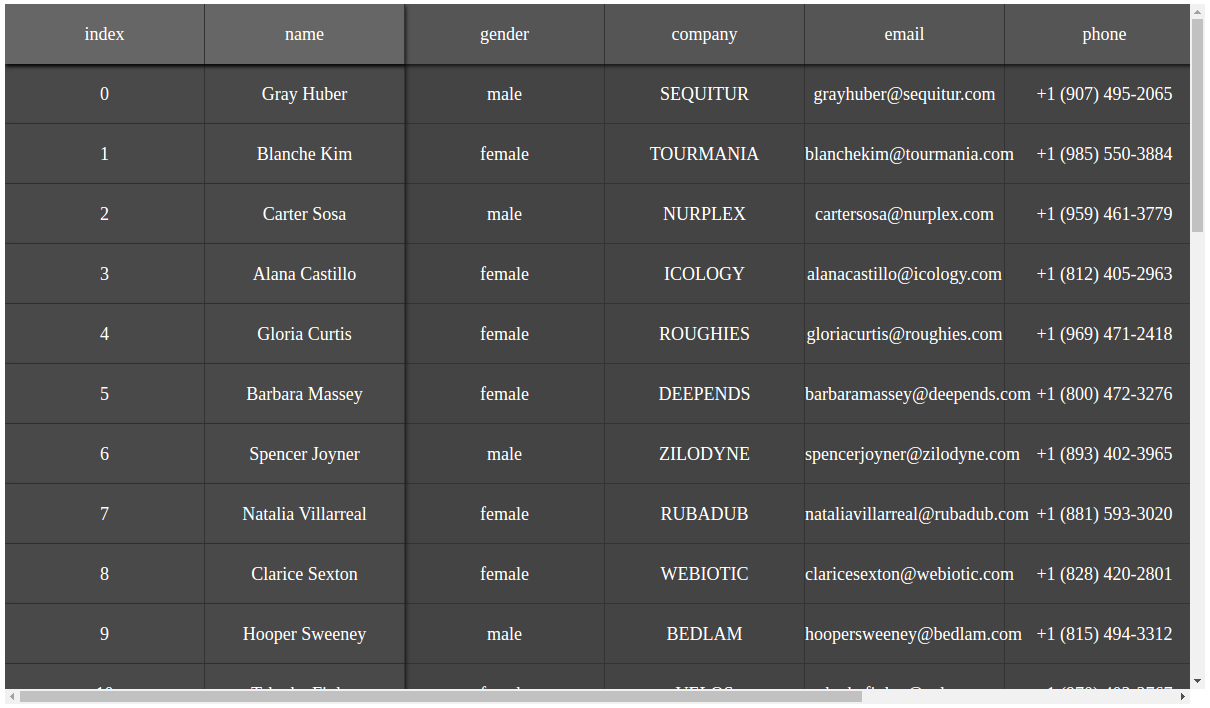
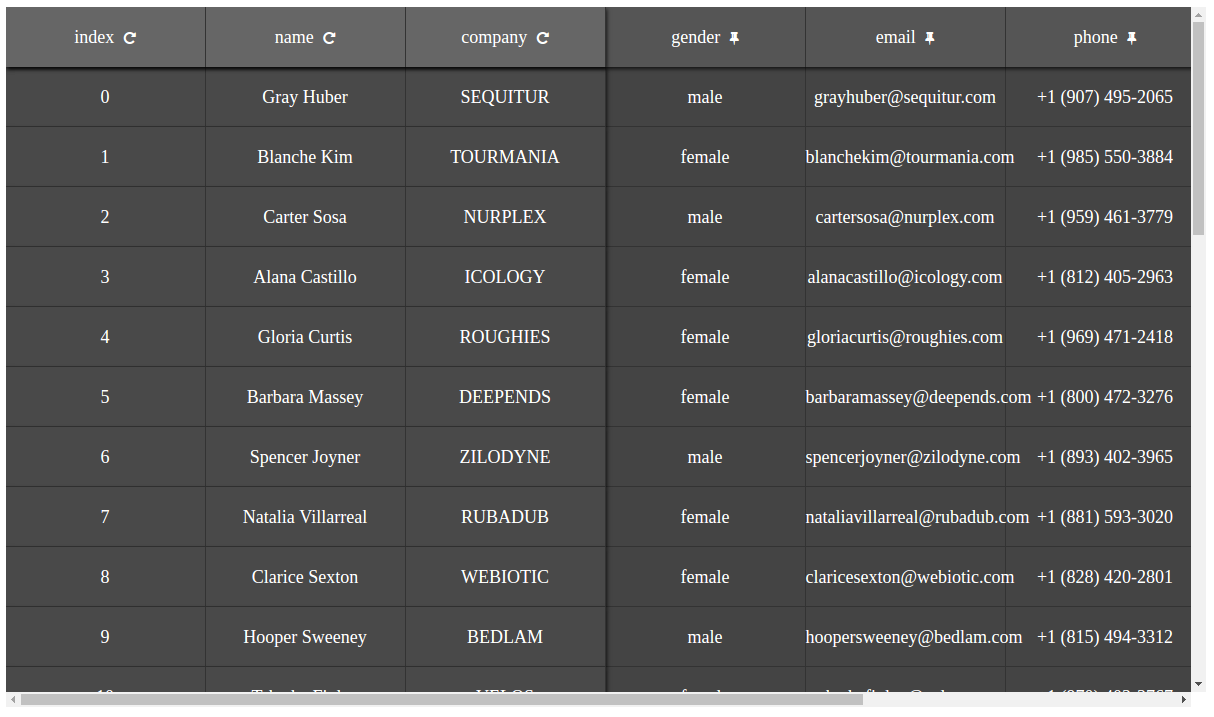
background color and row height parametrized

diff --git a/src/app/modules/table-layout/components/table-layout/table-layout.component.html b/src/app/modules/table-layout/components/table-layout/table-layout.component.html
@@ -1,20 +1,22 @@
-<div id="scrollable" class="table_container">
+<div id="scrollable" class="table_container" [ngStyle]="{'background-color': background}">
 
-  <div id="point" class="header">
+  <div id="point" class="header" [ngStyle]="{'height': rowHeight}">
 
-    <ul id="top_left_fixed">
-      <li *ngFor="let fixedName of data.fixedColumnNames">
-        <span>{{fixedName}}
+    <ul id="top_left_fixed" [ngStyle]="{'height': rowHeight}">
+      <li [ngStyle]="{'height': rowHeight, 'background-color': topLeftBg}" *ngFor="let fixedName of data.fixedColumnNames" >
+        <span [ngStyle]="{'line-height': rowHeight, 'color':color}">{{fixedName}}
           <i fa [name]="'repeat'" (click)="unfixColumn(fixedName)"></i>
         </span>
       </li>
     </ul>
 
-    <div id="scrollable_x" class="scrollable_x">
-      <ul>
-        <li *ngFor="let fixedName of data.fixedColumnNames"><span>$nbsp;</span></li>
-        <li *ngFor="let scrollableName of data.scrollableColumnNames">
-          <span>{{scrollableName}}
+    <div id="scrollable_x" class="scrollable_x" [ngStyle]="{'height': rowHeight, 'top': negRowHeight}">
+      <ul [ngStyle]="{'height': rowHeight}">
+        <li [ngStyle]="{'height': rowHeight, 'background-color': xyBg}" *ngFor="let fixedName of data.fixedColumnNames">
+          <span [ngStyle]="{'line-height': rowHeight, 'color':color}">$nbsp;</span>
+        </li>
+        <li [ngStyle]="{'height': rowHeight, 'background-color': xyBg}" *ngFor="let scrollableName of data.scrollableColumnNames">
+          <span [ngStyle]="{'line-height': rowHeight, 'color':color}">{{scrollableName}}
             <i fa [name]="'thumb-tack'" (click)="fixColumn(scrollableName)"></i>
           </span>
         </li>
@@ -23,16 +25,20 @@
   </div>
 
   <div class="data_rows" id="data_rows">
-   
-
-    <div class="data_row" *ngFor="let row of data.rows">
-      <ul>
-        <li *ngFor="let fixedName of data.fixedColumnNames"><span>&nbsp;</span></li>
-        <li *ngFor="let scrollableName of data.scrollableColumnNames"><span>{{row[scrollableName]}}</span></li>
+    <div class="data_row" *ngFor="let row of data.rows" [ngStyle]="{'height': rowHeight}">
+      <ul [ngStyle]="{'height': rowHeight}">
+        <li [ngStyle]="{'height': subOneRowHeight, 'background-color': background}" *ngFor="let fixedName of data.fixedColumnNames">
+          <span [ngStyle]="{'line-height': rowHeight, 'color':color}">&nbsp;</span>
+        </li>
+        <li [ngStyle]="{'height': subOneRowHeight, 'background-color': background}" *ngFor="let scrollableName of data.scrollableColumnNames">
+          <span [ngStyle]="{'line-height': rowHeight, 'color':color}">{{row[scrollableName]}}</span>
+        </li>
       </ul>
-      <div class="scrollable_y">
-        <ul>
-          <li *ngFor="let fixedName of data.fixedColumnNames"><span>{{row[fixedName]}}</span></li>
+      <div [ngStyle]="{'height': rowHeight, 'top': negRowHeight}" class="scrollable_y">
+        <ul [ngStyle]="{'height': rowHeight}">
+          <li [ngStyle]="{'height': subOneRowHeight, 'background-color': xyBg}" *ngFor="let fixedName of data.fixedColumnNames">
+            <span [ngStyle]="{'line-height': rowHeight, 'color':color}">{{row[fixedName]}}</span>
+          </li>
         </ul>
       </div>
     </div>    

diff --git a/src/app/modules/table-layout/components/table-layout/table-layout.component.ts b/src/app/modules/table-layout/components/table-layout/table-layout.component.ts
@@ -10,6 +10,12 @@ export class TableLayoutComponent implements OnInit {
   scrollContainer:any;
   @Input('data') data:any;
   @Input('rowHeight') rowHeight:any;
+  @Input('background') background:any;
+  @Input('color') color:any;
+  negRowHeight:any;
+  subOneRowHeight:any;
+  topLeftBg:any;
+  xyBg:any;
 
   constructor() {
     
@@ -18,6 +24,10 @@ export class TableLayoutComponent implements OnInit {
   ngOnInit() {
       this.scrollContainer = document.getElementById("scrollable");
       if(this.scrollContainer) window.addEventListener('scroll', (e) => this.scroll(e), true);
+      this.negRowHeight = "-" + this.rowHeight;
+      this.subOneRowHeight = (parseInt(this.rowHeight) - 1) + "px";
+      this.topLeftBg = this.colorLuminance(this.background, 0.3);
+      this.xyBg = this.colorLuminance(this.background, 0.15);     
   }
 
   ngOnDestroy() {
@@ -43,7 +53,7 @@ export class TableLayoutComponent implements OnInit {
 
         if(fixed){
           fixed.style.left = deltaX + 'px';
-          fixed.style.top = (deltaY + 60) + 'px';
+          fixed.style.top = (deltaY + parseInt(this.rowHeight) + 'px');
         }
 
         if(scrollable_y){
@@ -89,6 +99,22 @@ export class TableLayoutComponent implements OnInit {
     var index = this.data.fixedColumnNames.indexOf(colName);
     if(index >= 0)this.data.fixedColumnNames.splice(index, 1);
     if(this.data.scrollableColumnNames.indexOf(colName) < 0) this.data.scrollableColumnNames.splice(0, 0, colName);
+  }
+
+  colorLuminance(hex, lum) {
+    hex = String(hex).replace(/[^0-9a-f]/gi, '');
+    if (hex.length < 6) {
+      hex = hex[0]+hex[0]+hex[1]+hex[1]+hex[2]+hex[2];
+    }
+    lum = lum || 0;
+
+    var rgb = "#", c, i;
+    for (i = 0; i < 3; i++) {
+      c = parseInt(hex.substr(i*2,2), 16);
+      c = Math.round(Math.min(Math.max(0, c + (c * lum)), 255)).toString(16);
+      rgb += ("00"+c).substr(c.length);
+    }
+    return rgb;
   }
 
 

diff --git a/src/app/modules/table-layout/components/table-layout/table-layout.component.css b/src/app/modules/table-layout/components/table-layout/table-layout.component.css
@@ -76,6 +76,8 @@
     display: inline-block;
     text-align: center;
     border-right: 1px solid #333;
+    padding-left: 5px;
+    padding-right: 5px;
 }
 
 .scrollable_y > ul > li,
@@ -139,4 +141,5 @@ span > i{
 .scrollable_xy{
 
 }
+
 

diff --git a/src/app/app.component.html b/src/app/app.component.html
@@ -1,3 +1,3 @@
 <div class="cont">
-<app-table-layout [data]="data" [rowHeight]="rowHeight"></app-table-layout>
+<app-table-layout [data]="data" [rowHeight]="'50px'" [background]="'#3F51B5'" [color]="'#eee'"></app-table-layout>
 </div>
